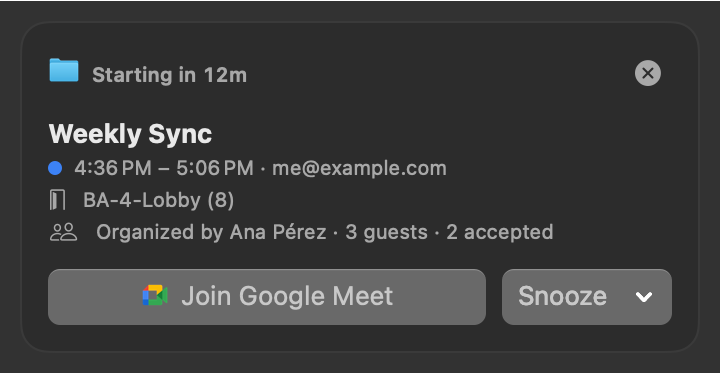
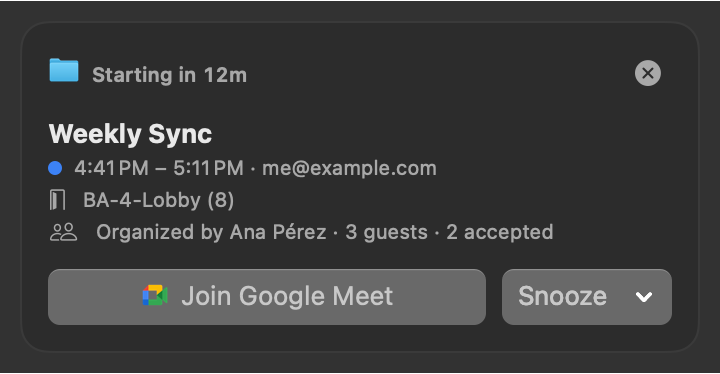
docs(site): 0.5.0 features, privacy up front, Join services, keyboard, uninstall and a fuller footer
The Homebrew answer carries --no-quarantine like the guide, the nav calls the guide Install,
the menu bar demo no longer widens the page, and the alert card image is one card per theme.

Changed region(s): [[0.1222, 0.4118, 0.6417, 0.4706]]

diff --git a/docs/index.html b/docs/index.html
@@ -36,7 +36,7 @@
   <header class="top">
     <a class="mark" href="./"><img src="img/icon.png" alt="" width="28" height="28">Calenbar</a>
     <nav>
-      <a href="install.html"><span data-en>Guide</span><span data-es hidden>Guía</span></a>
+      <a href="install.html"><span data-en>Install</span><span data-es hidden>Instalar</span></a>
       <a href="whats-new.html"><span data-en>What's new</span><span data-es hidden>Novedades</span></a>
       <a href="https://github.com/hercase/calenbar">GitHub</a>
       <div class="lang" role="group" aria-label="Language">
@@ -56,8 +56,8 @@
         <svg viewBox="0 0 24 24"><path d="M12 3a1 1 0 0 1 1 1v9.6l2.9-2.9a1 1 0 1 1 1.4 1.4l-4.6 4.6a1 1 0 0 1-1.4 0L6.7 12.1a1 1 0 0 1 1.4-1.4l2.9 2.9V4a1 1 0 0 1 1-1zM5 17a1 1 0 0 1 1 1v1h12v-1a1 1 0 1 1 2 0v2a1 1 0 0 1-1 1H5a1 1 0 0 1-1-1v-2a1 1 0 0 1 1-1z"/></svg>
         <span data-en>Install on your Mac</span><span data-es hidden>Instalar en tu Mac</span>
       </a>
-      <p class="fine" data-en>Free and open source. macOS 14 or later.<span data-version="en"></span> Download, or one Homebrew command.</p>
-      <p class="fine" data-es hidden>Gratis y de código abierto. macOS 14 o posterior.<span data-version="es"></span> Descarga, o un comando de Homebrew.</p>
+      <p class="fine" data-en>Free and open source. No account, and your events never leave your Mac. macOS 14 or later.<span data-version="en"></span></p>
+      <p class="fine" data-es hidden>Gratis y de código abierto. Sin cuenta, y tus eventos no salen de tu Mac. macOS 14 o posterior.<span data-version="es"></span></p>
     </div>
 
     <div class="screen" aria-hidden="true">
@@ -119,12 +119,24 @@
       <div class="card" data-en><h3>Unanswered invitations</h3><p>Flagged in the list with a hollow bar, and the card takes you straight to reply in Google Calendar or Calendar.</p></div>
       <div class="card" data-en><h3>The right browser</h3><p>Work account in Chrome but Safari is your default? Meeting links can open where you're signed in. Zoom and Teams can use their apps.</p></div>
       <div class="card" data-en><h3>Per calendar</h3><p>The dentist shouldn't show up in the menu bar at work. Decide, per calendar, what shows in the list, the bar, notifications and alerts.</p></div>
+      <div class="card" data-en><h3>Sharing your screen</h3><p>Hide event titles and the menu bar says “Meeting • in 12m” until you turn them back on.</p></div>
+      <div class="card" data-en><h3>Days off at a glance</h3><p>Holidays and time off (Out of office, PTO, vacation) tint their days in the month view. Up to three dots under a day say how busy it is.</p></div>
+      <div class="card" data-en><h3>One event, not two</h3><p>A personal event mirrored into your work calendar shows once, even when the copy just says “Busy”.</p></div>
+      <div class="card" data-en><h3>Start a call</h3><p>Need a room right now? Start a Google Meet, Zoom or Teams call from the panel's ••• menu.</p></div>
+      <div class="card" data-en><h3>Updates itself</h3><p>New versions download in the background. A dot on the menu bar icon says one is ready; it installs when you relaunch.</p></div>
+      <div class="card" data-en><h3>In your language</h3><p>English and Spanish, following your Mac. Time off is recognised in nine languages.</p></div>
       <div class="card" data-es hidden><h3>Omitir</h3><p>¿A esa no vas? Clic derecho, Omitir, y la barra pasa a la siguiente. Queda en la lista, atenuada, por si cambiás de idea.</p></div>
       <div class="card" data-es hidden><h3>Hasta dónde mira</h3><p>¿No querés ver la reunión de las 17 toda la mañana? Decile que mire una o dos horas adelante, o toda la semana.</p></div>
       <div class="card" data-es hidden><h3>Fijar el panel</h3><p>¿Comparando relojes o leyendo notas? Fijalo y queda abierto mientras trabajás en otras apps.</p></div>
       <div class="card" data-es hidden><h3>Invitaciones sin responder</h3><p>Marcadas en la lista con la barra hueca, y la tarjeta te lleva directo a contestar en Google Calendar o Calendario.</p></div>
       <div class="card" data-es hidden><h3>El navegador correcto</h3><p>¿La cuenta del trabajo en Chrome pero Safari es tu predeterminado? Los enlaces abren donde ya estás logueado. Zoom y Teams pueden usar sus apps.</p></div>
       <div class="card" data-es hidden><h3>Por calendario</h3><p>El dentista no tiene que aparecer en la barra en el trabajo. Decidí, por calendario, qué va a la lista, a la barra, a notificaciones y alertas.</p></div>
+      <div class="card" data-es hidden><h3>Compartiendo pantalla</h3><p>Ocultá los títulos y la barra dice “Reunión • en 12m” hasta que los vuelvas a mostrar.</p></div>
+      <div class="card" data-es hidden><h3>Días libres de un vistazo</h3><p>Feriados y días libres (Out of office, PTO, vacaciones) tiñen sus días en el mes. Hasta tres puntos debajo de un día dicen qué tan cargado está.</p></div>
+      <div class="card" data-es hidden><h3>Un evento, no dos</h3><p>Un evento personal copiado a tu calendario de trabajo aparece una vez, aunque la copia diga solo “Ocupado”.</p></div>
+      <div class="card" data-es hidden><h3>Arrancar una llamada</h3><p>¿Necesitás una sala ya? Iniciá una llamada de Google Meet, Zoom o Teams desde el menú ••• del panel.</p></div>
+      <div class="card" data-es hidden><h3>Se actualiza sola</h3><p>Las versiones nuevas se descargan solas. Un punto en el ícono de la barra avisa que hay una lista; se instala al reabrir.</p></div>
+      <div class="card" data-es hidden><h3>En tu idioma</h3><p>Inglés y español, según tu Mac. Los días libres se reconocen en nueve idiomas.</p></div>
     </div>
   </section>
 
@@ -157,8 +169,8 @@
     <div class="text">
       <h2 data-en>The event card</h2>
       <h2 data-es hidden>La tarjeta del evento</h2>
-      <p data-en>Click any event and the card opens beside it: the time here and in your other time zones, a Join button, the room, who's invited and who said yes, the notes. Join opens Google Meet, Zoom, Teams, Webex, Slack huddles or FaceTime; Zoom and Teams go straight to their apps if you have them.</p>
-      <p data-es hidden>Hacé clic en un evento y se abre la tarjeta al lado: la hora acá y en tus otras zonas horarias, el botón Unirse, la sala, quién está invitado y quién dijo que sí, las notas. Unirse abre Google Meet, Zoom, Teams, Webex, huddles de Slack o FaceTime; Zoom y Teams van directo a sus apps si las tenés.</p>
+      <p data-en>Click any event and the card opens beside it: the time here and in your other time zones, a Join button, the room, who's invited and who said yes, the notes. Join knows the services below; Zoom and Teams go straight to their apps if you have them.</p>
+      <p data-es hidden>Hacé clic en un evento y se abre la tarjeta al lado: la hora acá y en tus otras zonas horarias, el botón Unirse, la sala, quién está invitado y quién dijo que sí, las notas. Unirse conoce los servicios de abajo; Zoom y Teams van directo a sus apps si las tenés.</p>
       <ul data-en>
         <li>Click a row and the card stays open while you move the pointer; click again, press Esc or click elsewhere to let it go.</li>
         <li>Double-click opens the event in Google Calendar or Calendar.</li>
@@ -171,6 +183,14 @@
     <picture class="card"><source srcset="img/card-dark.png" media="(prefers-color-scheme: dark)"><img src="img/card.png" alt="The event card: time in Madrid and Tokyo, a Join Google Meet button, the room, guests and their replies" width="300" height="458"></picture>
   </section>
 
+  <section class="services">
+    <h2 data-en>Join works with</h2>
+    <h2 data-es hidden>Unirse funciona con</h2>
+    <ul><li>Google Meet</li><li>Zoom</li><li>Microsoft Teams</li><li>Webex</li><li>FaceTime</li><li>Slack huddles</li><li>Jitsi Meet</li><li>Whereby</li><li>Around</li><li>Amazon Chime</li><li>Gather</li><li>Pexip</li></ul>
+    <p data-en>Links are found in the event's URL, location or notes.</p>
+    <p data-es hidden>Los enlaces se buscan en la URL, la ubicación o las notas del evento.</p>
+  </section>
+
   <section class="feature wide">
     <div class="text">
       <h2 data-en>Before a meeting</h2>
@@ -181,13 +201,25 @@
     <picture class="card"><source srcset="img/alert-card-dark.png" media="(prefers-color-scheme: dark)"><img src="img/alert-card.png" alt="The alert card: Starting in 12m, Weekly Sync, the room and who is coming, with Join Google Meet and Snooze buttons" width="360" height="187"></picture>
   </section>
 
+  <section class="keys">
+    <h2 data-en>From the keyboard</h2>
+    <h2 data-es hidden>Desde el teclado</h2>
+    <dl>
+      <div><dt><kbd>⌃</kbd><kbd>⌘</kbd><kbd>J</kbd></dt><dd data-en>Join the next meeting, from any app. Change it in Settings › General.</dd><dd data-es hidden>Entrar a la próxima reunión, desde cualquier app. Se cambia en Ajustes › General.</dd></div>
+      <div><dt><kbd>Return</kbd></dt><dd data-en>In the panel, join the meeting at the top.</dd><dd data-es hidden>En el panel, entrar a la reunión de arriba.</dd></div>
+      <div><dt><kbd>Esc</kbd></dt><dd data-en>Close the event card.</dd><dd data-es hidden>Cerrar la tarjeta del evento.</dd></div>
+      <div><dt><kbd>⌘</kbd><kbd>,</kbd></dt><dd data-en>Open Settings from the panel.</dd><dd data-es hidden>Abrir Ajustes desde el panel.</dd></div>
+      <div><dt><kbd>⌘</kbd> + <span data-en>drag</span><span data-es hidden>arrastrar</span></dt><dd data-en>Move the menu bar item, for example right next to the clock.</dd><dd data-es hidden>Mover el ítem de la barra, por ejemplo junto al reloj.</dd></div>
+    </dl>
+  </section>
+
   <section class="faq" data-en>
     <h2>Questions</h2>
     <dl>
       <dt>Does it work with Google Calendar?</dt>
       <dd>Yes. Calenbar reads whatever the Mac's Calendar app has, so a Google, Exchange or iCloud account added in System Settings › Internet Accounts shows up. No separate sign-in.</dd>
       <dt>Why does macOS say it can't verify the app?</dt>
-      <dd>Calenbar isn't registered with Apple's developer program, so macOS shows that warning for the first launch. Opening it through System Settings › Privacy &amp; Security › Open Anyway is a one-time step; <a href="install.html">the guide shows where</a>. Updates afterwards install themselves without it.</dd>
+      <dd>Calenbar isn't notarized by Apple, so macOS shows that warning on the first launch. Opening it through System Settings › Privacy &amp; Security › Open Anyway is a one-time step; <a href="install.html">the guide shows where</a>. Updates afterwards install themselves without it.</dd>
       <dt>Where does my data go?</dt>
       <dd>Nowhere. Events are read on your Mac and never sent anywhere. Calenbar goes online for two things only: a daily check for a new version, and looking a city up in Apple Maps when you add a world clock.</dd>
       <dt>Can it sit right next to the clock?</dt>
@@ -195,7 +227,9 @@
       <dt>Does it use battery or data?</dt>
       <dd>Barely. Calenbar doesn't sync anything itself: it reads the Mac's calendar database, wakes up once a minute to update the countdown, and every five minutes asks macOS to refresh accounts. The heavy lifting (talking to Google or Exchange) is done by the system, as it already is for the Calendar app.</dd>
       <dt>Can I install it from the terminal?</dt>
-      <dd>Yes: <code>brew install --cask hercase/calenbar/calenbar</code>. Updates still come through the app itself.</dd>
+      <dd>Yes: <code>brew install --cask hercase/calenbar/calenbar --no-quarantine</code>. The flag skips the “Not Opened” warning; <a href="install.html">the guide</a> explains it. Updates still come through the app itself.</dd>
+      <dt>How do I uninstall it?</dt>
+      <dd>Right-click the menu bar item, Quit, and drag Calenbar from Applications to the Trash. To remove its settings too, delete <code>~/Library/Preferences/com.hernancase.calenbar.plist</code>. With Homebrew, <code>brew uninstall --zap --cask calenbar</code> does both.</dd>
       <dt>What does it cost?</dt>
       <dd>Nothing. It's MIT-licensed and the <a href="https://github.com/hercase/calenbar">source is on GitHub</a>.</dd>
     </dl>
@@ -207,7 +241,7 @@
       <dt>¿Funciona con Google Calendar?</dt>
       <dd>Sí. Calenbar lee lo que tiene la app Calendario de la Mac, así que una cuenta de Google, Exchange o iCloud agregada en Ajustes del Sistema › Cuentas de Internet aparece. No hay que iniciar sesión aparte.</dd>
       <dt>¿Por qué macOS dice que no puede verificar la app?</dt>
-      <dd>Calenbar no está registrada en el programa de desarrolladores de Apple, así que macOS muestra ese aviso la primera vez. Abrirla desde Ajustes del Sistema › Privacidad y seguridad › Abrir de todas formas se hace una sola vez; <a href="install.html">la guía muestra dónde</a>. Las actualizaciones después se instalan solas.</dd>
+      <dd>Calenbar no está notarizada por Apple, así que macOS muestra ese aviso la primera vez. Abrirla desde Ajustes del Sistema › Privacidad y seguridad › Abrir de todas formas se hace una sola vez; <a href="install.html">la guía muestra dónde</a>. Las actualizaciones después se instalan solas.</dd>
       <dt>¿A dónde van mis datos?</dt>
       <dd>A ningún lado. Los eventos se leen en tu Mac y no se envían. Calenbar se conecta solo para dos cosas: ver una vez por día si hay versión nueva, y buscar la ciudad en Apple Maps cuando agregás un reloj del mundo.</dd>
       <dt>¿Puede quedar pegado al reloj?</dt>
@@ -215,7 +249,9 @@
       <dt>¿Gasta batería o datos?</dt>
       <dd>Casi nada. Calenbar no sincroniza por su cuenta: lee la base de datos del calendario de la Mac, se despierta una vez por minuto para actualizar la cuenta regresiva y cada cinco minutos le pide a macOS que refresque las cuentas. El trabajo pesado (hablar con Google o Exchange) lo hace el sistema, como ya lo hace para la app Calendario.</dd>
       <dt>¿Se puede instalar desde la terminal?</dt>
-      <dd>Sí: <code>brew install --cask hercase/calenbar/calenbar</code>. Las actualizaciones siguen llegando por la app.</dd>
+      <dd>Sí: <code>brew install --cask hercase/calenbar/calenbar --no-quarantine</code>. Esa opción evita el aviso “No se abrió”; <a href="install.html">la guía</a> lo explica. Las actualizaciones siguen llegando por la app.</dd>
+      <dt>¿Cómo la desinstalo?</dt>
+      <dd>Clic derecho en el ítem de la barra, Salir, y arrastrá Calenbar de Aplicaciones al basurero. Para borrar también sus ajustes, eliminá <code>~/Library/Preferences/com.hernancase.calenbar.plist</code>. Con Homebrew, <code>brew uninstall --zap --cask calenbar</code> hace las dos cosas.</dd>
       <dt>¿Cuánto cuesta?</dt>
       <dd>Nada. Tiene licencia MIT y el <a href="https://github.com/hercase/calenbar">código está en GitHub</a>.</dd>
     </dl>
@@ -233,8 +269,8 @@
   </section>
 
   <footer>
-    <span data-en>Made by <a href="https://hercase.vercel.app/?utm_source=calenbar&utm_medium=landing">Hernan Case</a>. <a href="install.html">Guide</a>. <a href="whats-new.html">What's new</a>. <a href="https://github.com/hercase/calenbar">Source on GitHub</a>.</span>
-    <span data-es hidden>Hecho por <a href="https://hercase.vercel.app/?utm_source=calenbar&utm_medium=landing">Hernan Case</a>. <a href="install.html">Guía</a>. <a href="whats-new.html">Novedades</a>. <a href="https://github.com/hercase/calenbar">Código en GitHub</a>.</span>
+    <span data-en>Made by <a href="https://hercase.vercel.app/?utm_source=calenbar&utm_medium=landing">Hernan Case</a>. <a href="https://github.com/hercase/calenbar">Source on GitHub</a> under the <a href="https://github.com/hercase/calenbar/blob/main/LICENSE">MIT license</a>. <a href="https://github.com/hercase/calenbar/issues/new">Report a problem or ask for something</a>. <a href="https://github.com/hercase/calenbar/releases">All releases</a>.</span>
+    <span data-es hidden>Hecho por <a href="https://hercase.vercel.app/?utm_source=calenbar&utm_medium=landing">Hernan Case</a>. <a href="https://github.com/hercase/calenbar">Código en GitHub</a> con <a href="https://github.com/hercase/calenbar/blob/main/LICENSE">licencia MIT</a>. <a href="https://github.com/hercase/calenbar/issues/new">Reportá un problema o pedí algo</a>. <a href="https://github.com/hercase/calenbar/releases">Todas las versiones</a>.</span>
   </footer>
 </div>
 <script type="application/ld+json">

diff --git a/docs/site.css b/docs/site.css
@@ -89,6 +89,8 @@ h1 { font-size: clamp(38px, 6.4vw, 64px); line-height: 1.03; letter-spacing: -0.
   padding: 0 0 28px; text-align: left;
 }
 .screen.short { padding-bottom: 72px; }
+/* In a grid column, auto margins would size the screen to the menu bar's unwrapped width. */
+.feature .screen { margin: 0; width: 100%; }
 .menubar {
   height: 32px; background: var(--bar); color: var(--bar-ink);
   -webkit-backdrop-filter: blur(20px); backdrop-filter: blur(20px);
@@ -145,7 +147,7 @@ h1 { font-size: clamp(38px, 6.4vw, 64px); line-height: 1.03; letter-spacing: -0.
 @media (max-width: 640px) { .release { grid-template-columns: 1fr; gap: 6px; } }
 
 /* Features: text and a screenshot, alternating sides. */
-.feature { display: grid; grid-template-columns: 1fr 1fr; gap: 56px; align-items: center; padding: 80px 0; border-top: 1px solid var(--rule); }
+.feature { display: grid; grid-template-columns: minmax(0, 1fr) minmax(0, 1fr); gap: 56px; align-items: center; padding: 80px 0; border-top: 1px solid var(--rule); }
 .feature.flip > .text { order: 2; }
 .feature h2 { font-size: clamp(26px, 3.4vw, 34px); line-height: 1.12; letter-spacing: -0.025em; margin: 0 0 12px; }
 .feature p { margin: 0 0 14px; color: var(--ink-2); }
@@ -159,12 +161,29 @@ h1 { font-size: clamp(38px, 6.4vw, 64px); line-height: 1.03; letter-spacing: -0.
 .feature.wide .text { max-width: 60ch; }
 @media (max-width: 680px) { .feature { grid-template-columns: 1fr; gap: 24px; padding: 40px 0; } .feature.flip > .text { order: 0; } }
 
+/* Meeting services Join recognises */
+.services { padding: 56px 0; border-top: 1px solid var(--rule); text-align: center; }
+.services h2 { font-size: clamp(22px, 3vw, 28px); letter-spacing: -0.02em; margin: 0 0 20px; }
+.services ul { list-style: none; margin: 0 auto; padding: 0; display: flex; flex-wrap: wrap; justify-content: center; gap: 10px; max-width: 760px; }
+.services li { background: var(--win); border: 1px solid var(--rule); border-radius: 999px; padding: 7px 16px; font-size: 15px; font-weight: 500; }
+.services p { color: var(--ink-3); font-size: 14px; margin: 18px 0 0; }
+
+/* Keyboard */
+.keys { padding: 64px 0; border-top: 1px solid var(--rule); }
+.keys h2 { font-size: clamp(26px, 3.4vw, 34px); letter-spacing: -0.025em; margin: 0 0 20px; }
+.keys dl { margin: 0; display: grid; grid-template-columns: repeat(auto-fit, minmax(260px, 1fr)); gap: 12px; }
+.keys dl > div { display: flex; align-items: baseline; gap: 14px; background: var(--win); border: 1px solid var(--rule); border-radius: 14px; padding: 14px 16px; }
+.keys dt { flex: none; min-width: 84px; color: var(--ink-2); font-size: 14px; }
+.keys dd { margin: 0; color: var(--ink-2); font-size: 15px; }
+kbd { display: inline-block; min-width: 24px; padding: 2px 7px; margin-right: 3px; text-align: center; font: 600 13px/1.4 -apple-system, BlinkMacSystemFont, sans-serif; color: var(--ink); background: var(--paper); border: 1px solid var(--win-rule); border-bottom-width: 2px; border-radius: 6px; }
+
 /* Questions */
 .faq { padding: 56px 0 24px; border-top: 1px solid var(--rule); }
 .faq h2 { font-size: 30px; letter-spacing: -0.02em; margin: 0 0 20px; }
 .faq dl { margin: 0; display: grid; gap: 22px; max-width: 64ch; }
 .faq dt { font-weight: 600; margin: 0 0 4px; }
 .faq dd { margin: 0; color: var(--ink-2); }
+.faq dd code { font-size: .85em; background: var(--win); border: 1px solid var(--rule); border-radius: 5px; padding: 1px 5px; overflow-wrap: anywhere; }
 
 /* Closing band */
 .closing { padding: 64px 24px; margin: 24px 0 56px; text-align: center; border-radius: 24px; background: var(--wallpaper); box-shadow: 0 0 0 1px var(--wallpaper-edge); }
@@ -243,3 +262,4 @@ p code { background: var(--win); border: 1px solid var(--rule); border-radius: 5
 
 footer { padding: 36px 0 48px; color: var(--ink-3); font-size: 14px; border-top: 1px solid var(--rule); }
 footer a { color: var(--ink-2); }
+footer span { line-height: 1.8; }

diff --git a/docs/whats-new.html b/docs/whats-new.html
@@ -26,7 +26,7 @@
     <a class="mark" href="./"><img src="img/icon.png" alt="" width="28" height="28">Calenbar</a>
     <nav>
       <a href="./"><span data-en>Overview</span><span data-es hidden>Inicio</span></a>
-      <a href="install.html"><span data-en>Guide</span><span data-es hidden>Guía</span></a>
+      <a href="install.html"><span data-en>Install</span><span data-es hidden>Instalar</span></a>
       <a href="https://github.com/hercase/calenbar">GitHub</a>
       <div class="lang" role="group" aria-label="Language">
         <button type="button" data-lang="en" aria-pressed="true" lang="en">EN</button>
@@ -172,8 +172,8 @@
   </article>
 
   <footer>
-    <span data-en>Made by <a href="https://hercase.vercel.app/?utm_source=calenbar&utm_medium=landing">Hernan Case</a>. <a href="https://github.com/hercase/calenbar/releases">All releases on GitHub</a>.</span>
-    <span data-es hidden>Hecho por <a href="https://hercase.vercel.app/?utm_source=calenbar&utm_medium=landing">Hernan Case</a>. <a href="https://github.com/hercase/calenbar/releases">Todas las versiones en GitHub</a>.</span>
+    <span data-en>Made by <a href="https://hercase.vercel.app/?utm_source=calenbar&utm_medium=landing">Hernan Case</a>. <a href="https://github.com/hercase/calenbar">Source on GitHub</a> under the <a href="https://github.com/hercase/calenbar/blob/main/LICENSE">MIT license</a>. <a href="https://github.com/hercase/calenbar/issues/new">Report a problem or ask for something</a>. <a href="https://github.com/hercase/calenbar/releases">All releases</a>.</span>
+    <span data-es hidden>Hecho por <a href="https://hercase.vercel.app/?utm_source=calenbar&utm_medium=landing">Hernan Case</a>. <a href="https://github.com/hercase/calenbar">Código en GitHub</a> con <a href="https://github.com/hercase/calenbar/blob/main/LICENSE">licencia MIT</a>. <a href="https://github.com/hercase/calenbar/issues/new">Reportá un problema o pedí algo</a>. <a href="https://github.com/hercase/calenbar/releases">Todas las versiones</a>.</span>
   </footer>
 </div>
 <script src="site.js"></script>

diff --git a/docs/install.html b/docs/install.html
@@ -247,8 +247,8 @@
   </section>
 
   <footer>
-    <span data-en>Made by <a href="https://hercase.vercel.app/?utm_source=calenbar&utm_medium=landing">Hernan Case</a>. <a href="https://github.com/hercase/calenbar">Source on GitHub</a>.</span>
-    <span data-es hidden>Hecho por <a href="https://hercase.vercel.app/?utm_source=calenbar&utm_medium=landing">Hernan Case</a>. <a href="https://github.com/hercase/calenbar">Código en GitHub</a>.</span>
+    <span data-en>Made by <a href="https://hercase.vercel.app/?utm_source=calenbar&utm_medium=landing">Hernan Case</a>. <a href="https://github.com/hercase/calenbar">Source on GitHub</a> under the <a href="https://github.com/hercase/calenbar/blob/main/LICENSE">MIT license</a>. <a href="https://github.com/hercase/calenbar/issues/new">Report a problem or ask for something</a>. <a href="https://github.com/hercase/calenbar/releases">All releases</a>.</span>
+    <span data-es hidden>Hecho por <a href="https://hercase.vercel.app/?utm_source=calenbar&utm_medium=landing">Hernan Case</a>. <a href="https://github.com/hercase/calenbar">Código en GitHub</a> con <a href="https://github.com/hercase/calenbar/blob/main/LICENSE">licencia MIT</a>. <a href="https://github.com/hercase/calenbar/issues/new">Reportá un problema o pedí algo</a>. <a href="https://github.com/hercase/calenbar/releases">Todas las versiones</a>.</span>
   </footer>
 </div>
 <script src="site.js"></script>
